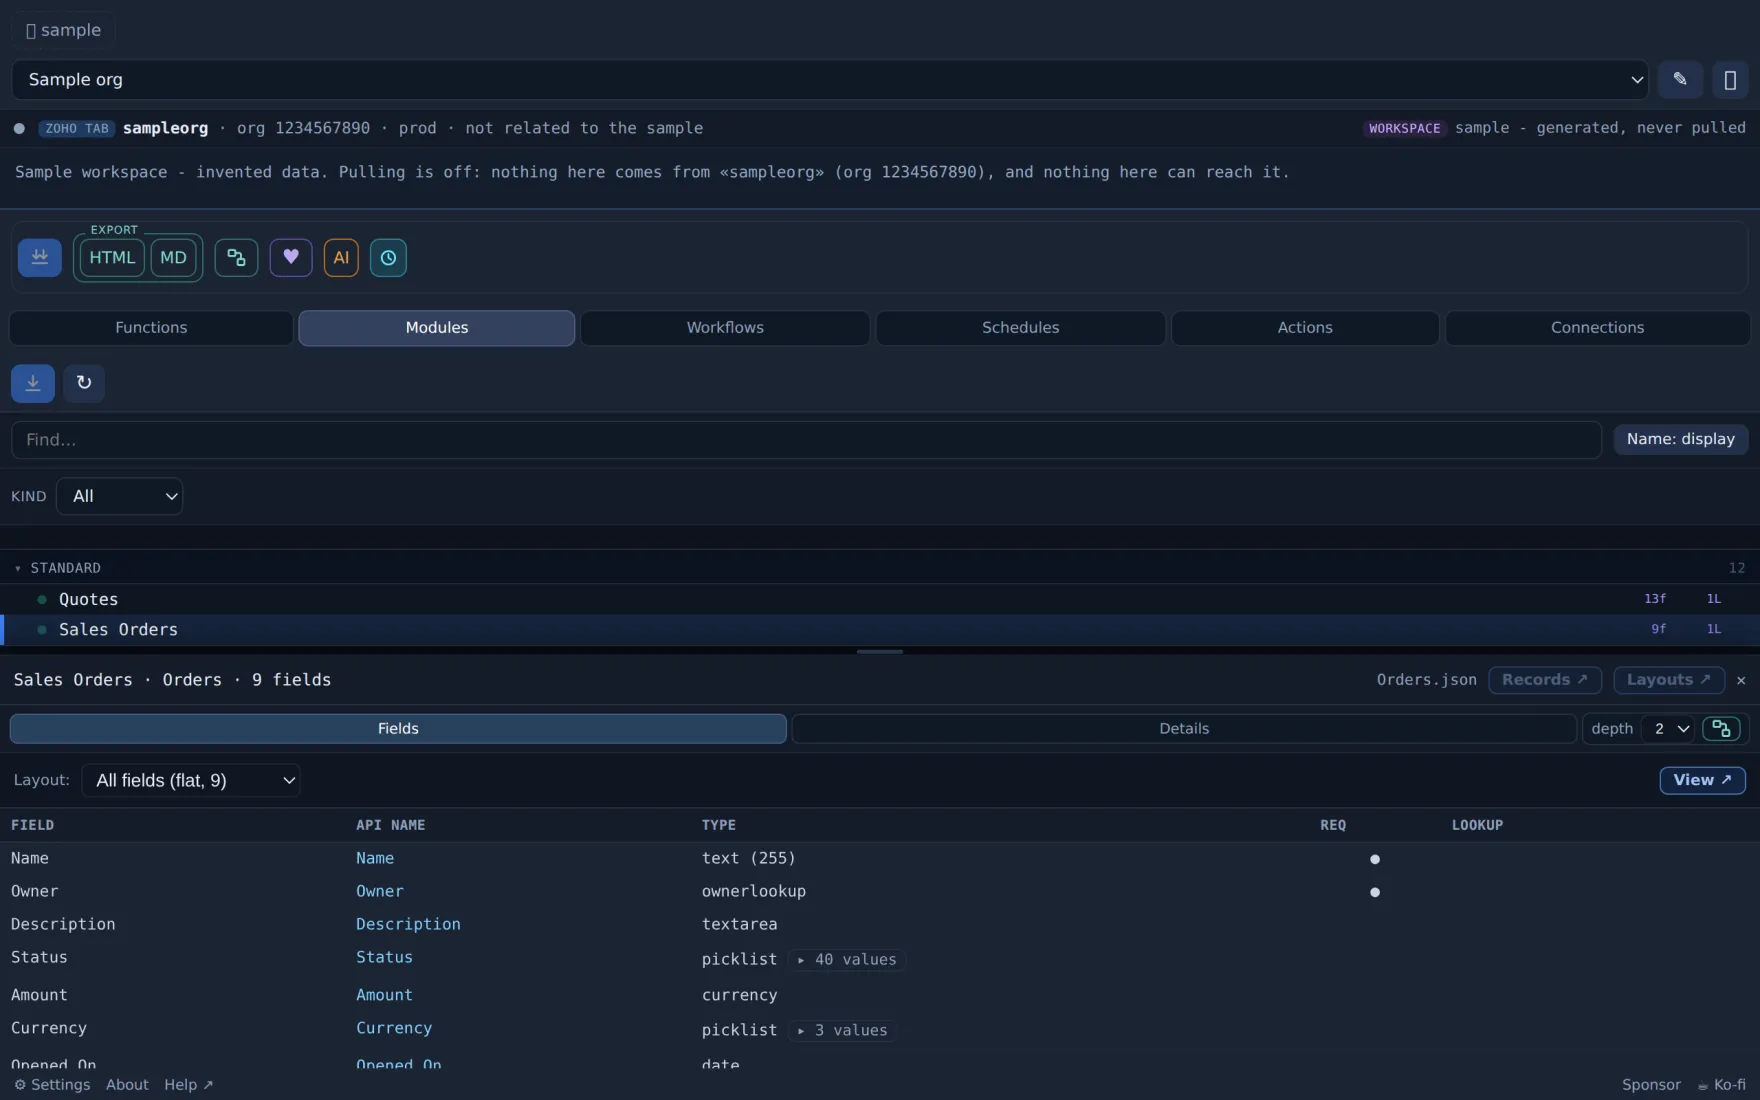
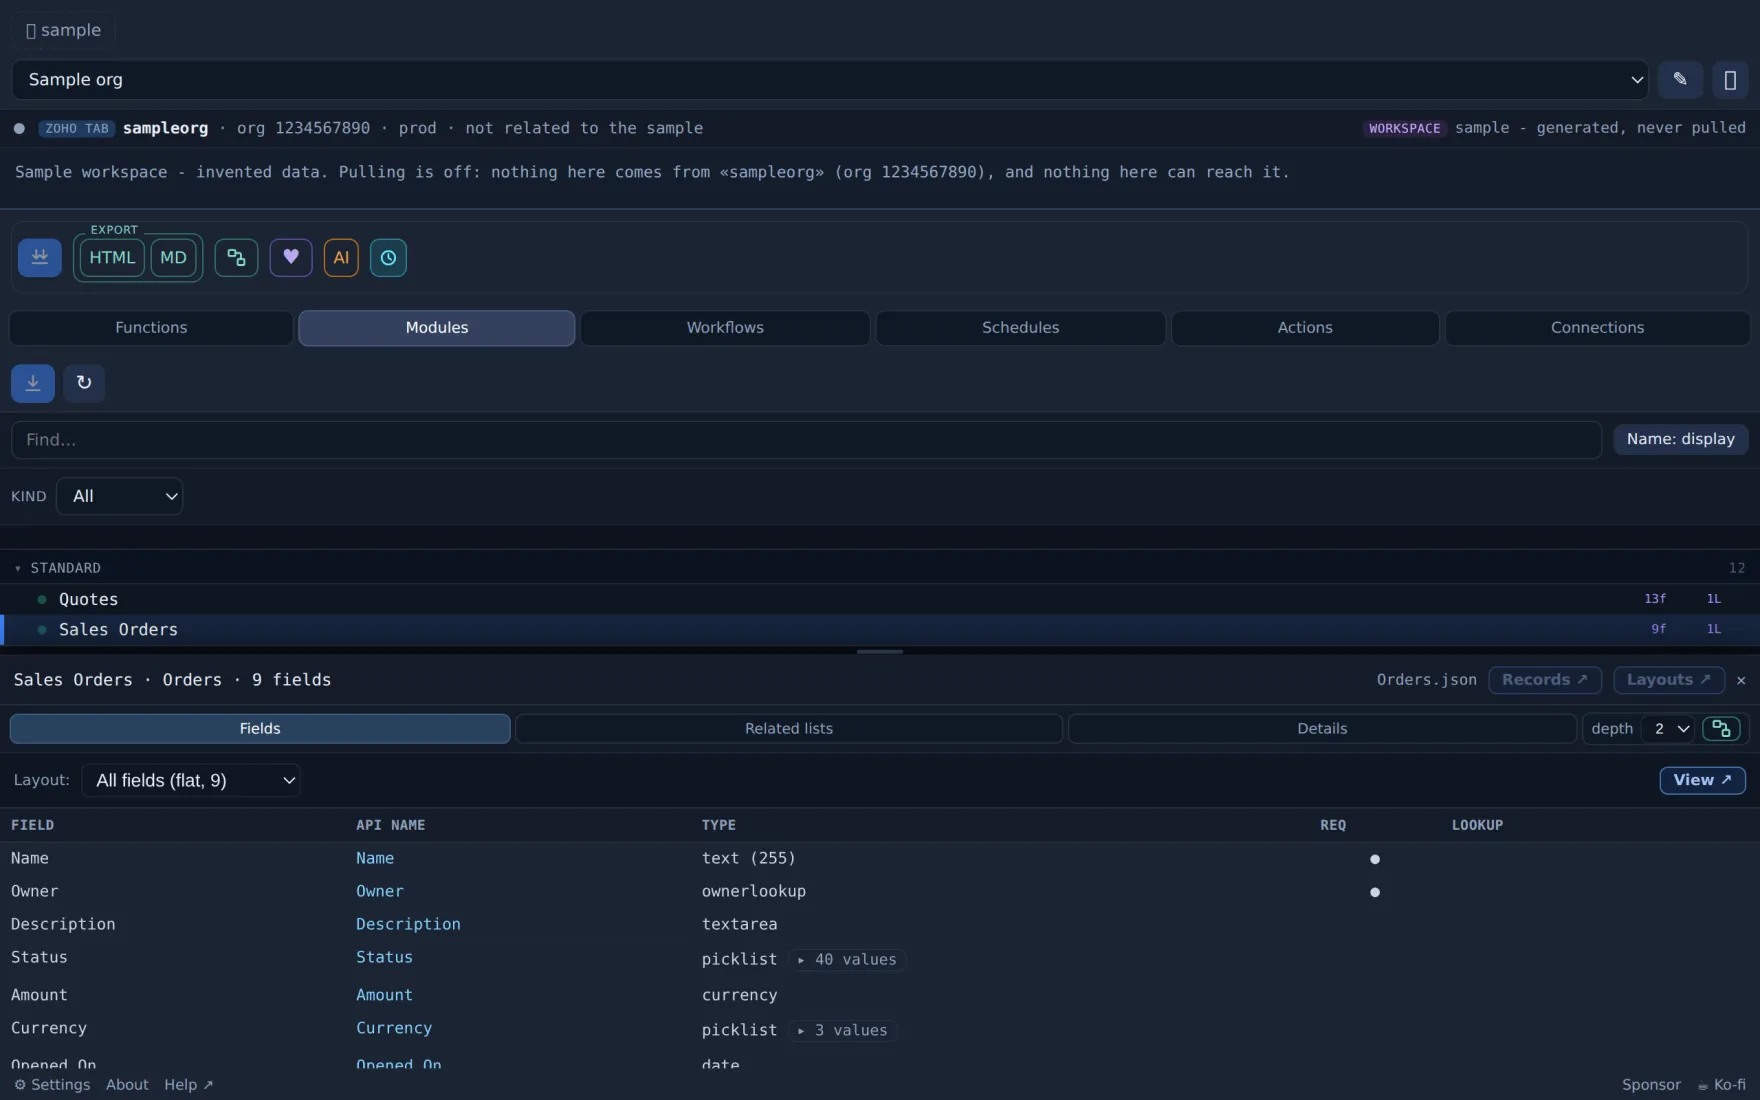
A module's related lists get a tab, and the strip stops being two buttons and a boolean
Asked for: «the module detail can be thought out better - move related lists into a tab like fields
and details. Today you struggle to see the whole detail because there is no room.» Right on both
counts. Splitting that pane in two had left the related lists at the bottom of «Details», under the
refusal banner, the names block and the layout counts - a column a side panel cannot show, and the one
string Deluge actually needs was at the end of it.

Three tabs now: Fields, Related lists, Details. And the strip is derived from what the kind declares
rather than from a pair of element ids and a boolean - a function has two, a module has three, and the
fourth costs a line in PV_KINDS instead of an `if` in four places. A tab a kind does not have is
absent rather than disabled, which is this panel's rule everywhere else and stops «Related lists»
appearing on a function with nothing behind it.

It also makes the twins more alike rather than less: the Analytics detail has had three tabs -
Columns, SQL, Relations - since it was written, and the CRM was the odd one out.

Three cases, one of them structural: every pane a kind declares must name an element that exists in
the markup, so a tab that leads nowhere fails here rather than on screen. Both guides say three, and
the sentence that described the old split is gone rather than left to contradict the panel.

diff --git a/apps/crm/sidepanel.js b/apps/crm/sidepanel.js
@@ -1869,12 +1869,27 @@ const PV_KINDS = {
   function: { first: 'Code', panes: { code: [['pvbody', 'flex']], info: [['pvcallers', '']] } },
   // `pvcallers` is on both kinds now: on a function it is what calls it, on a module it is what
   // reads and writes it. Same pane, same question - what relates to the thing on screen.
-  module: { first: 'Fields', panes: { code: [['pvfields', '']], info: [['pvdetails', ''], ['pvcallers', '']] } },
+  //
+  // A module has three. Its related lists used to sit at the bottom of «Details», under the refusal
+  // banner, the names block and the layout counts, in a column that does not fit a side panel -
+  // «you struggle to see the whole detail, there is no room». They carry the one string Deluge
+  // actually needs, so they get their own tab rather than the bottom of somebody else's.
+  module: { first: 'Fields', panes: { code: [['pvfields', '']], rel: [['pvrels', '']],
+                                      info: [['pvdetails', ''], ['pvcallers', '']] } },
 };
+const PV_TABS = { code: 'pvtab_code', rel: 'pvtab_rel', info: 'pvtab_info' };
 function setPvTab(which) {
-  pvTab = which === 'info' ? 'info' : 'code';
-  $('pvtab_code').classList.toggle('active', pvTab === 'code');
-  $('pvtab_info').classList.toggle('active', pvTab === 'info');
+  // Derived from the kind's own panes rather than from a pair of ids: the strip was two buttons and a
+  // boolean, so a third tab meant a third `if` in four places. What a kind has is what it declares.
+  const kinds = PV_KINDS[pvKind];
+  pvTab = (kinds && kinds.panes[which]) ? which : 'code';
+  Object.entries(PV_TABS).forEach(([tab, id]) => {
+    const b = $(id); if (!b) return;
+    // A tab a kind does not have is absent, not disabled: the panel's rule everywhere else, and a
+    // «Related lists» on a function would lead to an empty pane.
+    b.style.display = (kinds && kinds.panes[tab]) ? '' : 'none';
+    b.classList.toggle('active', tab === pvTab);
+  });
   // The copy control belongs to the pane that holds code, so it follows the strip like every other
   // pane rather than being switched on by the opener: set there, it stayed lit on «Details» and on a
   // module, where there is no code at all - visible in a picture published on the site. It is the

diff --git a/apps/crm/modules.js b/apps/crm/modules.js
@@ -355,13 +355,15 @@ async function openModule(path, layoutId) {
   const refBanner = refusal
     ? `<div class="box warn" style="margin:8px 10px;padding:8px 10px;font:11px var(--sans);line-height:1.5;color:#f7c66b;background:rgba(217,119,6,.12);border:1px solid #8a6321;border-radius:6px">${escHtml(refusal.text)}</div>`
     : '';
-  // Fields on one tab, everything else on the other - the same split as a function's, for the same
-  // reason: this pane held the names, the banner, the relations bar, the layout picker, the fields
-  // table and the related lists, stacked in 400px. The fields are what a module is opened for, so
-  // they are the first tab; the related-list API names are the most valuable thing here and sit at
-  // the top of the second, not at the bottom of a column nobody reaches.
+  // Three tabs: Fields, Related lists, Details. The pane once held the names, the banner, the
+  // relations bar, the layout picker, the fields table *and* the related lists, stacked in 400px;
+  // splitting it in two left the related lists at the bottom of «Details», under everything else,
+  // which is a column a side panel still cannot show - «you struggle to see the whole detail, there
+  // is no room». The fields are what a module is opened for, so they stay first; the related-list
+  // API names are the one string Deluge actually needs, so they get a tab instead of a footer.
   $('pvtable').innerHTML = `<div id="pvfields">${selector}<div id="laybody">${renderFieldsTable(m)}</div></div>`
-    + `<div id="pvdetails">${refBanner}${namesBlock}${rlBlock}</div>`;
+    + `<div id="pvrels">${rlBlock}</div>`
+    + `<div id="pvdetails">${refBanner}${namesBlock}</div>`;
   pvTabsFor('module');                 // clears the slot, so the bar goes in after it, never before
   $('pvtabsr').innerHTML = relBar;
   $('pvtable').querySelectorAll('.rlcopy').forEach((c) => (c.onclick = () => {

diff --git a/site/it/docs-crm.html b/site/it/docs-crm.html
@@ -1,7 +1,7 @@
 <!doctype html>
 <html lang="it">
 <head>
-<!-- translated-from: site/docs-crm.html sha256:65b08015987a233f -->
+<!-- translated-from: site/docs-crm.html sha256:b7bdec14f34104d9 -->
 <meta charset="utf-8">
 <meta name="viewport" content="width=device-width,initial-scale=1">
 <title>Come si usa Zoost CRM</title>
@@ -105,7 +105,7 @@
     dà la mappa, l'audit e - con Git - una storia delle parti che Zoho non versiona.</p>
 
   <figure class="shot">
-    <img src="/img/crm-modules.webp?v=0c369ebbe7" width="1760" height="1100" loading="lazy" decoding="async"
+    <img src="/img/crm-modules.webp?v=4998828a54" width="1760" height="1100" loading="lazy" decoding="async"
          alt="La scheda Modules: un modulo selezionato, con campi, tipi e layout nel pannello sotto.">
     <figcaption>Lo specchio è una cartella per tipo. Qui la scheda Modules, con i campi e i layout di un modulo sotto.</figcaption>
   </figure>
@@ -500,9 +500,9 @@ git commit -m "baseline"</code></pre>
   </div>
   <p>Due posti te la danno:</p>
   <ul>
-    <li><b>L'anteprima del modulo</b>, nel pannello laterale. Il suo dettaglio ha due tab -
-      <b class="ui">Fields</b> e <b class="ui">Details</b> - e le related list stanno in cima al secondo.
-      Clicca un API name per copiarlo.</li>
+    <li><b>L'anteprima del modulo</b>, nel pannello laterale. Il suo dettaglio ha tre tab -
+      <b class="ui">Fields</b>, <b class="ui">Related lists</b> e <b class="ui">Details</b> - e le related
+      list hanno tutto il tab di mezzo per sé. Clicca un API name per copiarlo.</li>
     <li><b>Scheda Relations</b> nella finestra del diagramma: una riga per relazione, con il modulo di
       destinazione, il campo lookup o il modulo di collegamento che ci sta dietro e la chiamata completa. I
       filtri nascondono le related list di sistema (Notes, Attachments, Tasks…) così restano solo le tue.</li>

diff --git a/site/docs-crm.html b/site/docs-crm.html
@@ -97,7 +97,7 @@
   <p>Zoost is not an editor. You keep writing Deluge in Zoho, where it compiles and validates. Zoost gives you the map, the audit, and - with Git - a history of the parts Zoho does not version.</p>
 
   <figure class="shot">
-    <img src="/img/crm-modules.webp?v=0c369ebbe7" width="1760" height="1100" loading="lazy" decoding="async"
+    <img src="/img/crm-modules.webp?v=4998828a54" width="1760" height="1100" loading="lazy" decoding="async"
          alt="The Modules tab: a module selected, with its fields, types and layouts in the pane below.">
     <figcaption>The mirror is one folder per kind. Here the Modules tab, with a module's fields and layouts under it.</figcaption>
   </figure>
@@ -468,9 +468,9 @@ git commit -m "baseline"</code></pre>
   </div>
   <p>Two places give it to you:</p>
   <ul>
-    <li><b>The module preview</b>, in the side panel. Its detail has two tabs - <b class="ui">Fields</b>
-      and <b class="ui">Details</b> - and the related lists are at the top of the second. Click an API name
-      to copy it.</li>
+    <li><b>The module preview</b>, in the side panel. Its detail has three tabs - <b class="ui">Fields</b>,
+      <b class="ui">Related lists</b> and <b class="ui">Details</b> - and the related lists have the middle
+      one to themselves. Click an API name to copy it.</li>
     <li><b>Relations tab</b> in the graph window: one row per relation, with the target module, the lookup
       field or linking module behind it, and the full call. Filter chips hide the system related lists
       (Notes, Attachments, Tasks…) so only your own relations remain.</li>

diff --git a/apps/crm/sidepanel.html b/apps/crm/sidepanel.html
@@ -732,6 +732,13 @@
            switch to, and a strip with nothing on the other side is a control with nothing to do. -->
       <div class="dtabs" id="pvtabs" hidden>
         <button class="dtab active" id="pvtab_code" data-pv="code">Code</button>
+        <!-- A module's related lists were at the bottom of «Details», under the banner, the names and
+             the layout counts - and that column does not fit in a side panel: «you struggle to see the
+             whole detail, there is no room». They are the most valuable thing on a module (the API name
+             `zoho.crm.getRelatedRecords()` needs) so they get a tab of their own, which is also what
+             the Analytics panel already does with Columns | SQL | Relations. Hidden for a function, which has
+             none: a strip that shows a tab leading nowhere is worse than three of them. -->
+        <button class="dtab" id="pvtab_rel" data-pv="rel">Related lists</button>
         <button class="dtab" id="pvtab_info" data-pv="info">Details</button>
         <button id="codecopy" class="lbtn icon" style="display:none" title="Copy this code to the clipboard" aria-label="Copy code"><svg class="mk" viewBox="0 0 16 16" aria-hidden="true"><rect x="5.5" y="5.5" width="8" height="9" rx="1.5"/><path d="M10.5 5.5v-2a1.5 1.5 0 0 0-1.5-1.5H4a1.5 1.5 0 0 0-1.5 1.5V10a1.5 1.5 0 0 0 1.5 1.5h1.5"/></svg></button>
         <span id="pvtabsr"></span>

diff --git a/store/crm/whatsnew/1.46.0.md b/store/crm/whatsnew/1.46.0.md
@@ -49,6 +49,13 @@ The row that offers it can now be dismissed with **✕**. It could not before: e
 is replaced by the next one, and after a report there is no next one, so it stayed for the rest of the
 session.
 
+## The related lists have a tab of their own
+
+A module's detail was two tabs, and its related lists sat at the bottom of **Details** - under the
+refusal banner, the names and the layout counts. In a side panel that is a column you scroll blind.
+They are now **Fields · Related lists · Details**, and the API name that `zoho.crm.getRelatedRecords()`
+needs is the first thing on the middle tab. Click one to copy it, as before.
+
 ## Also fixed
 
 - A full-text search left «Reading sources 150/150…» on screen with the spinner turning, over a search
@@ -74,4 +81,3 @@ session.
   away, and following one brought the tab back. They are plain text now - not an underlined word that
   does nothing, but a name that is plainly not a link - with the reason on them, and the tab stays
   where you put it.
-
